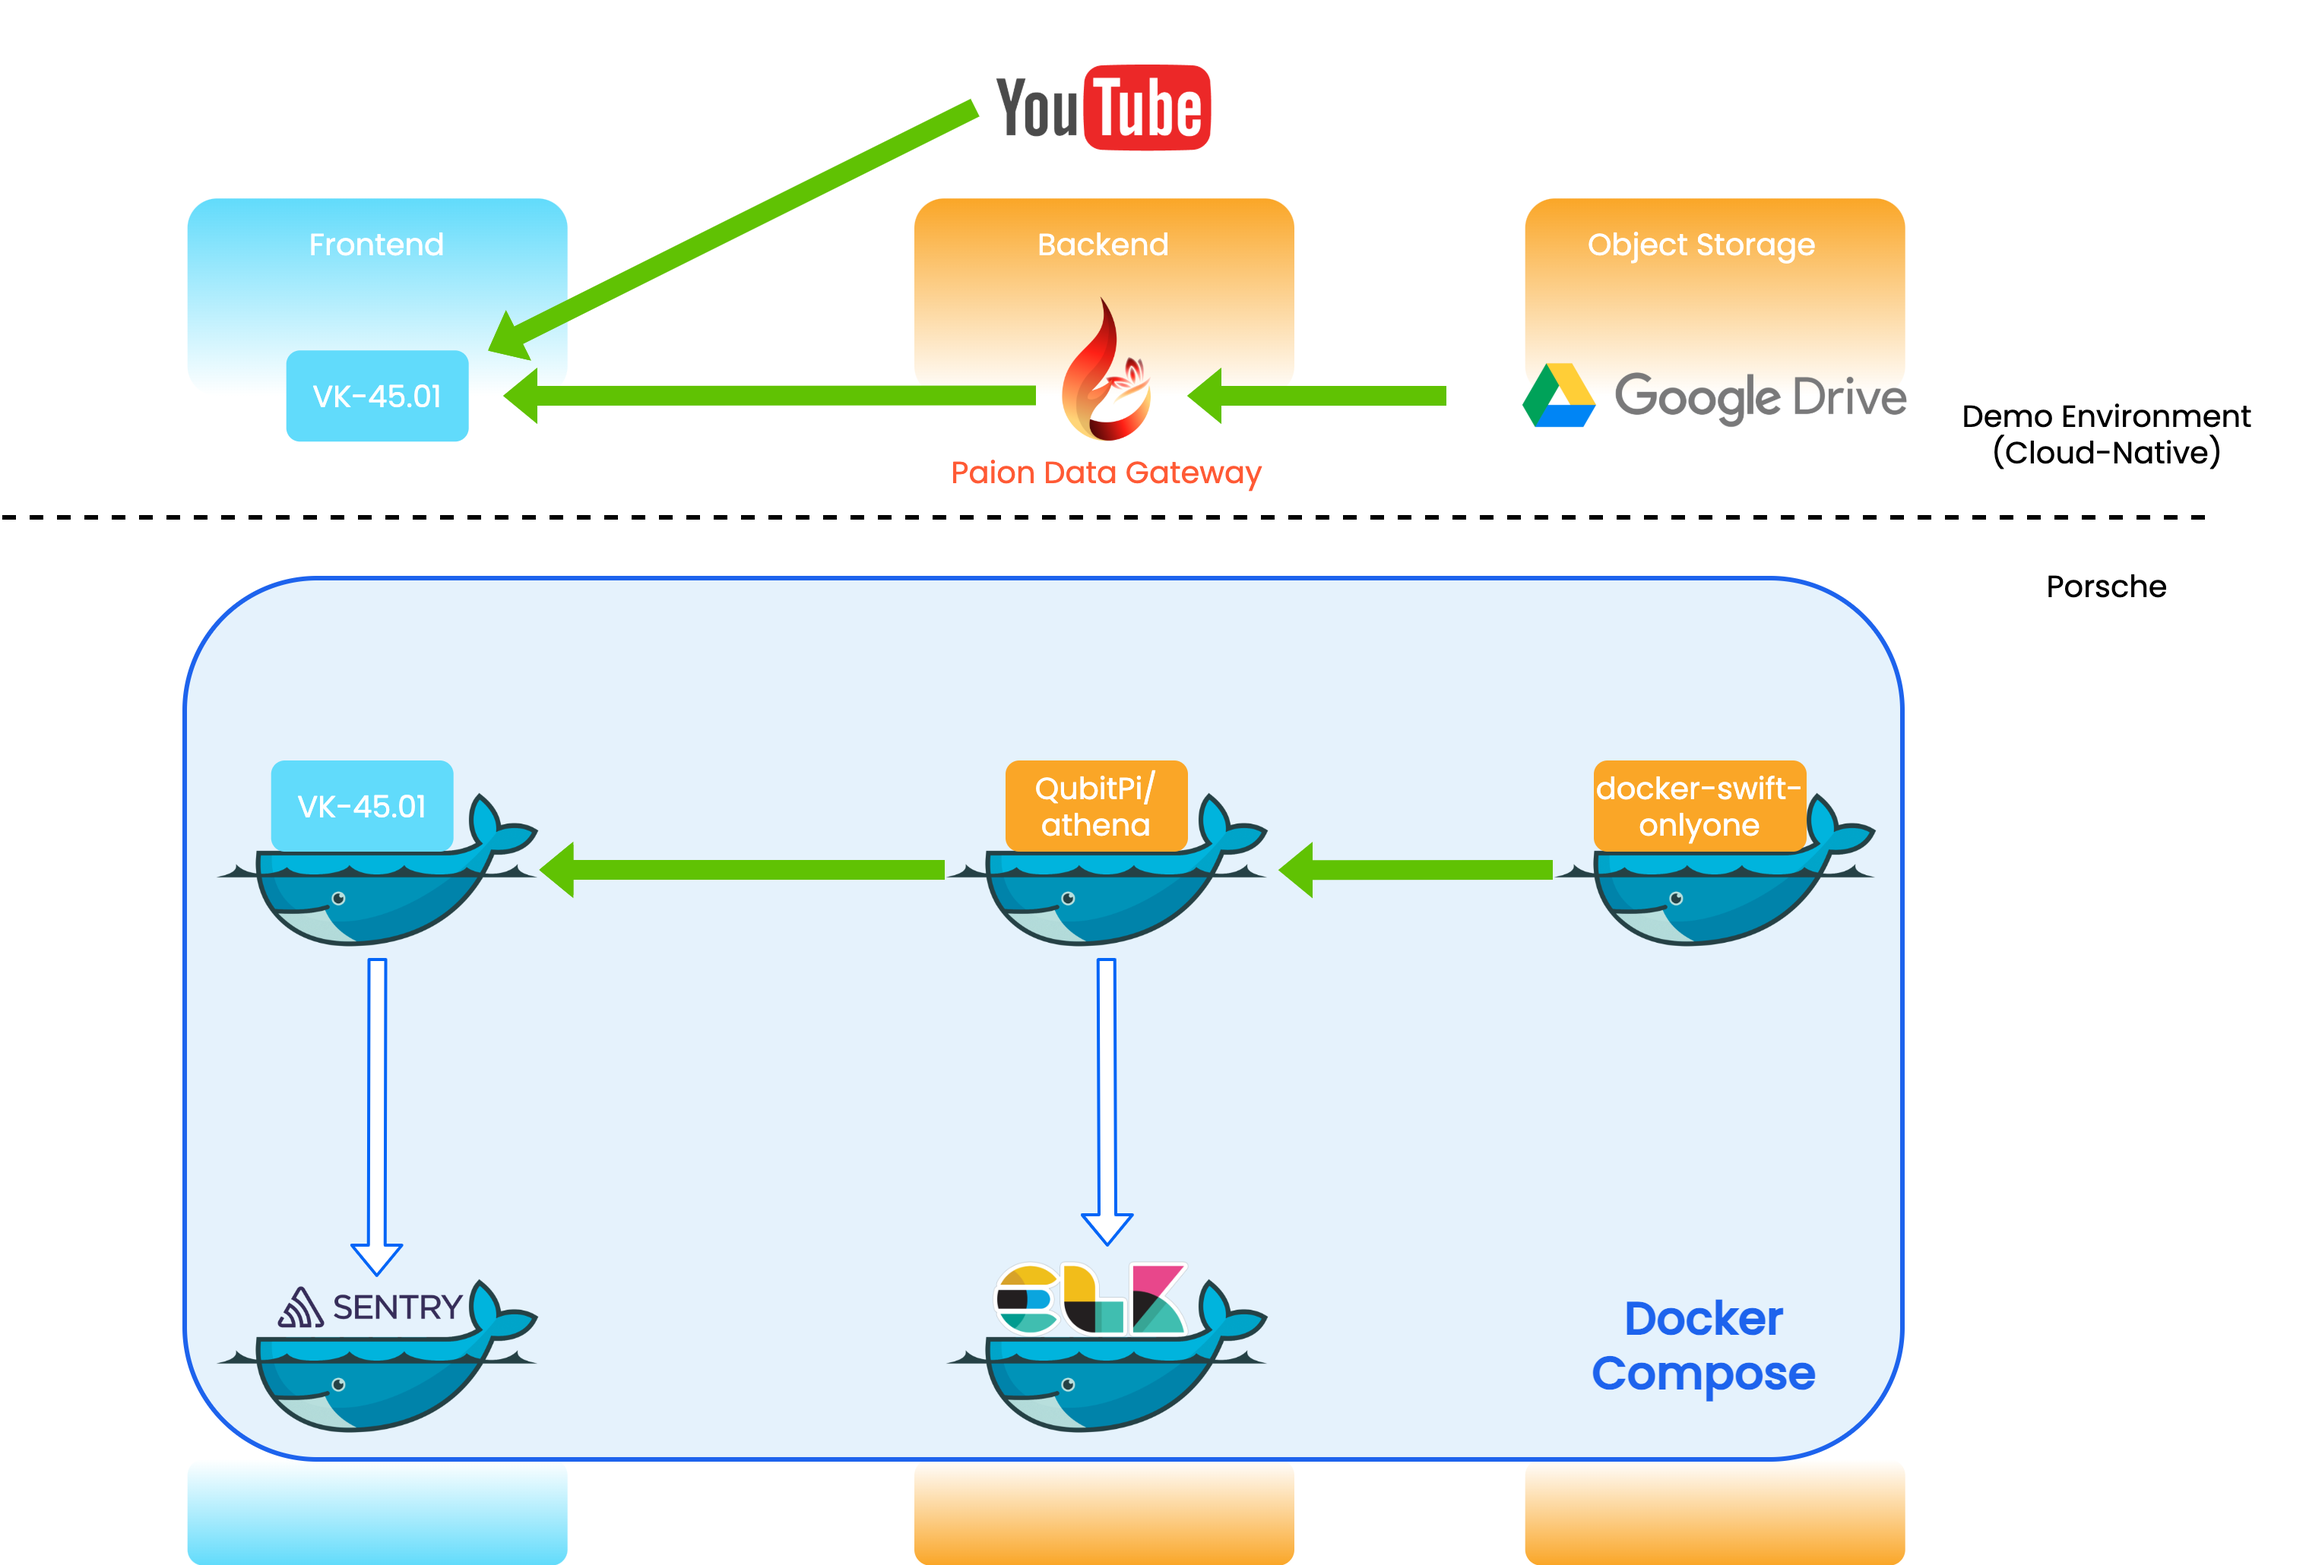
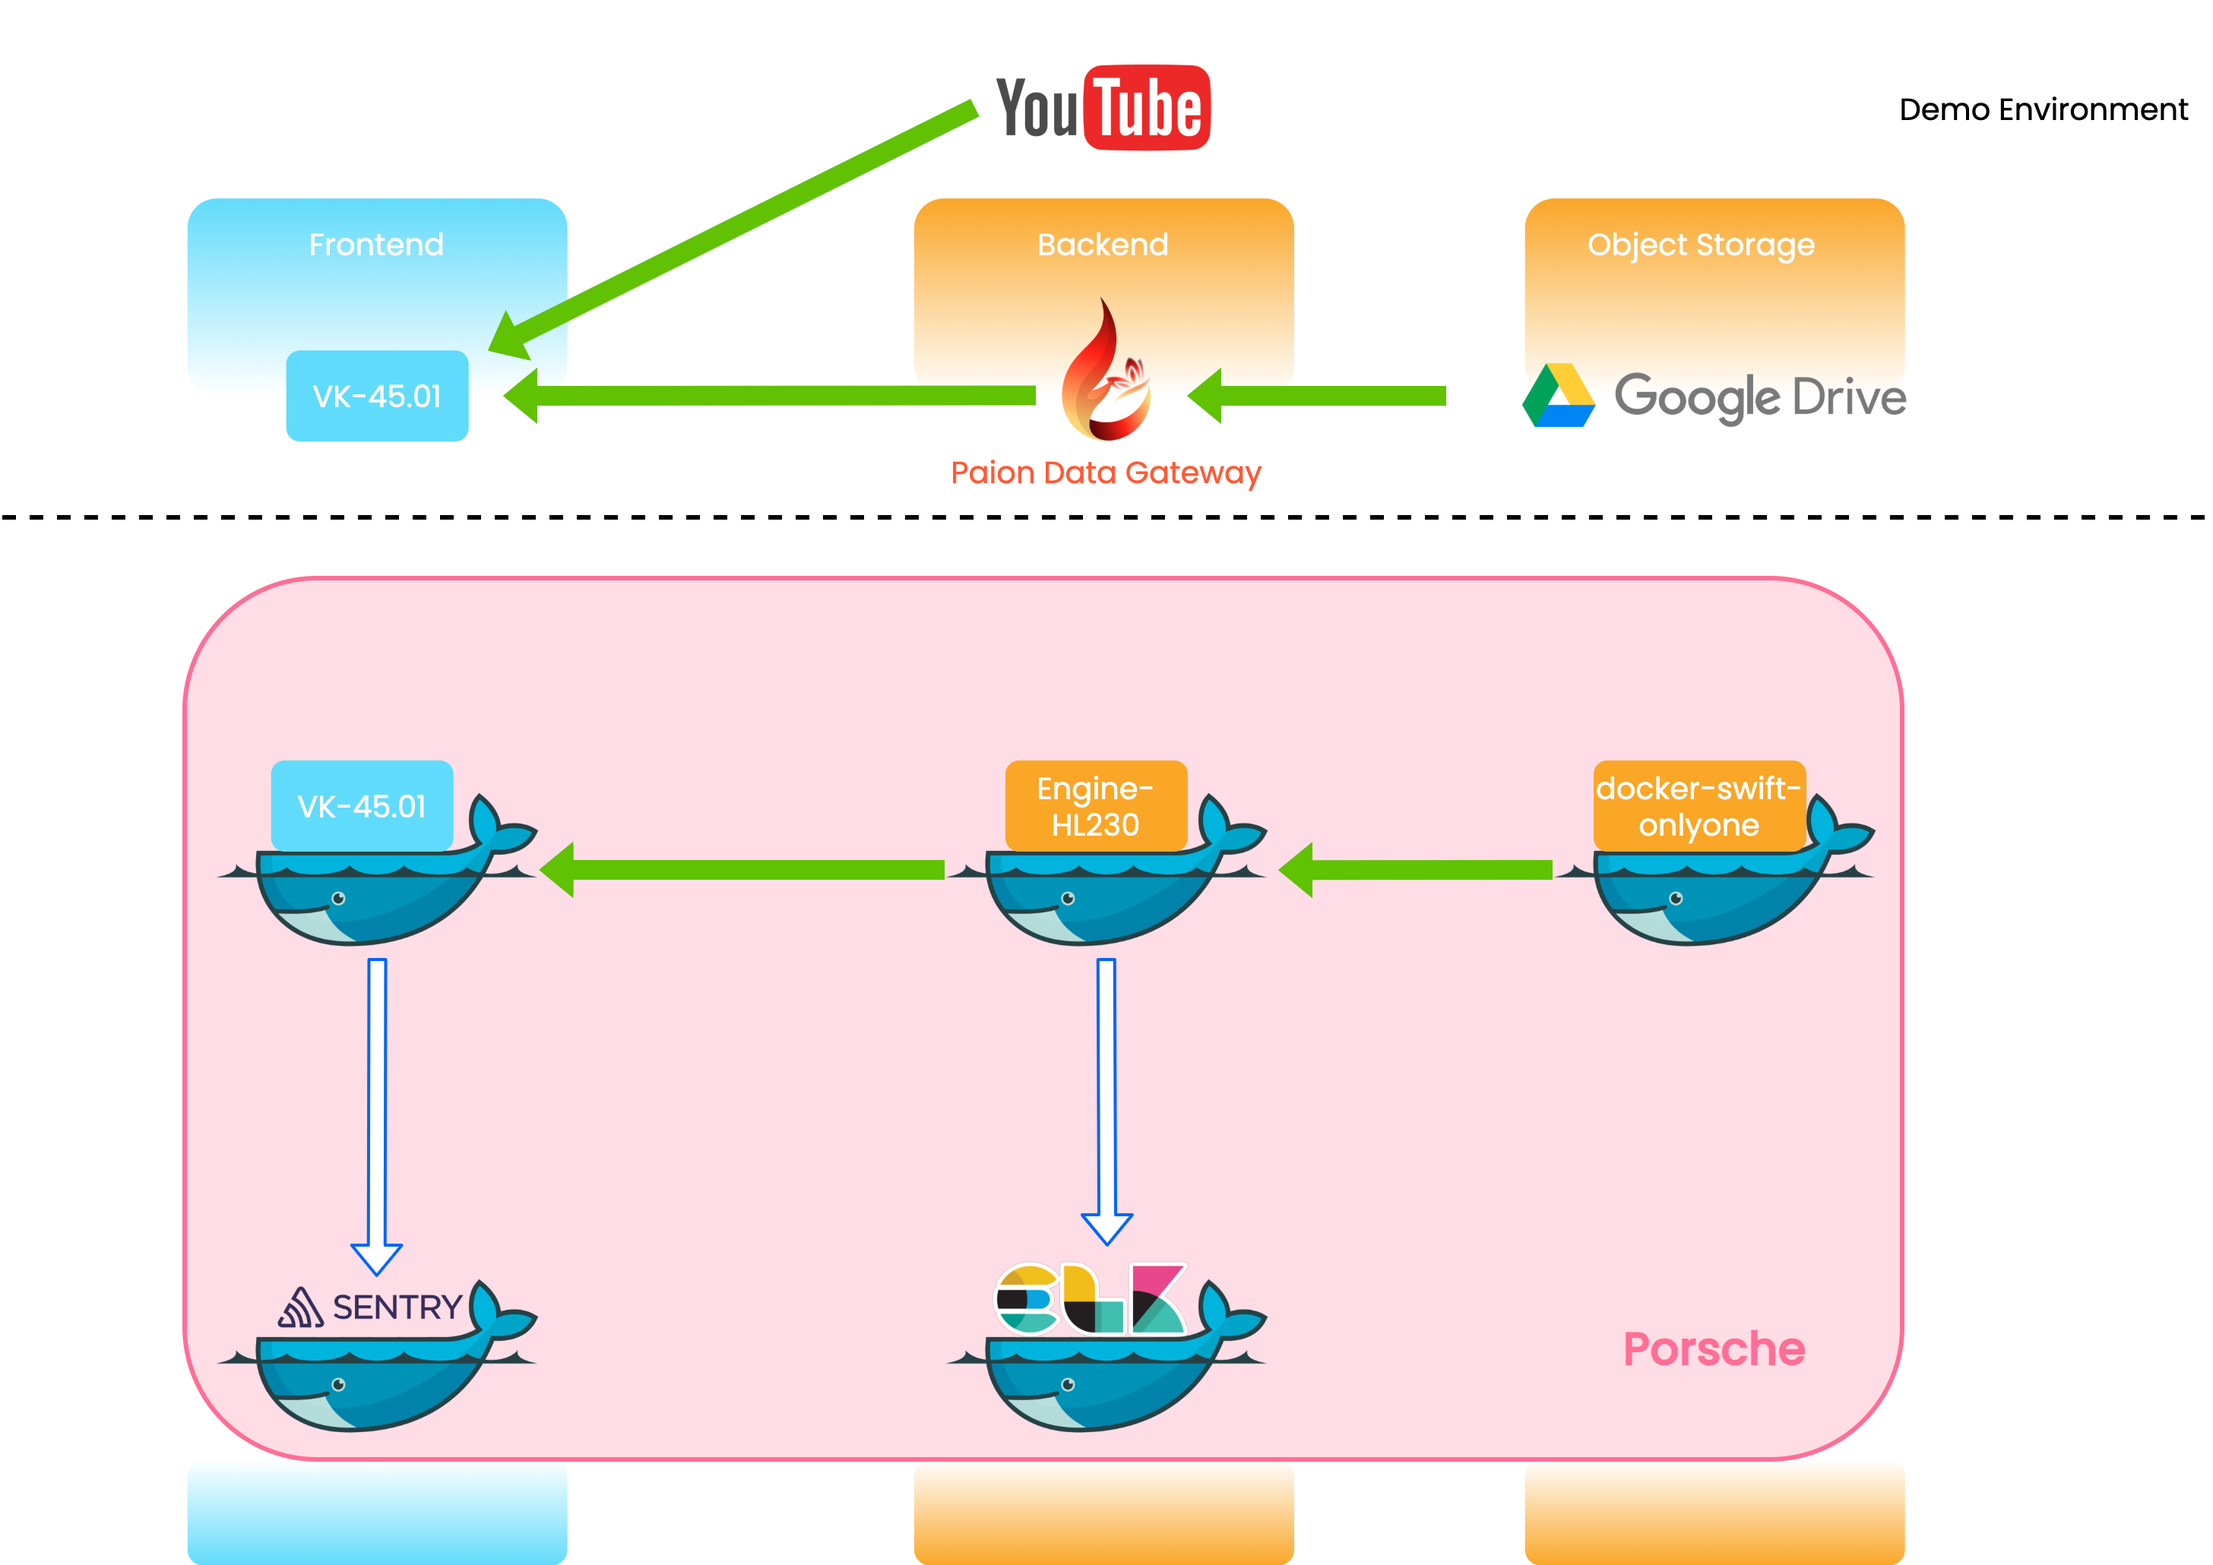
Update architecture diagram by integrating Engine-HL230 and Porsche projects

diff --git a/README.md b/README.md
@@ -7,6 +7,10 @@ __Porsche__ is a release definition that produces instances of VK-45.01.
 
 ![](./docs/vk4501-architecture.png)
 
+```console
+docker compose up --build --force-recreate
+```
+
 License
 -------
 
